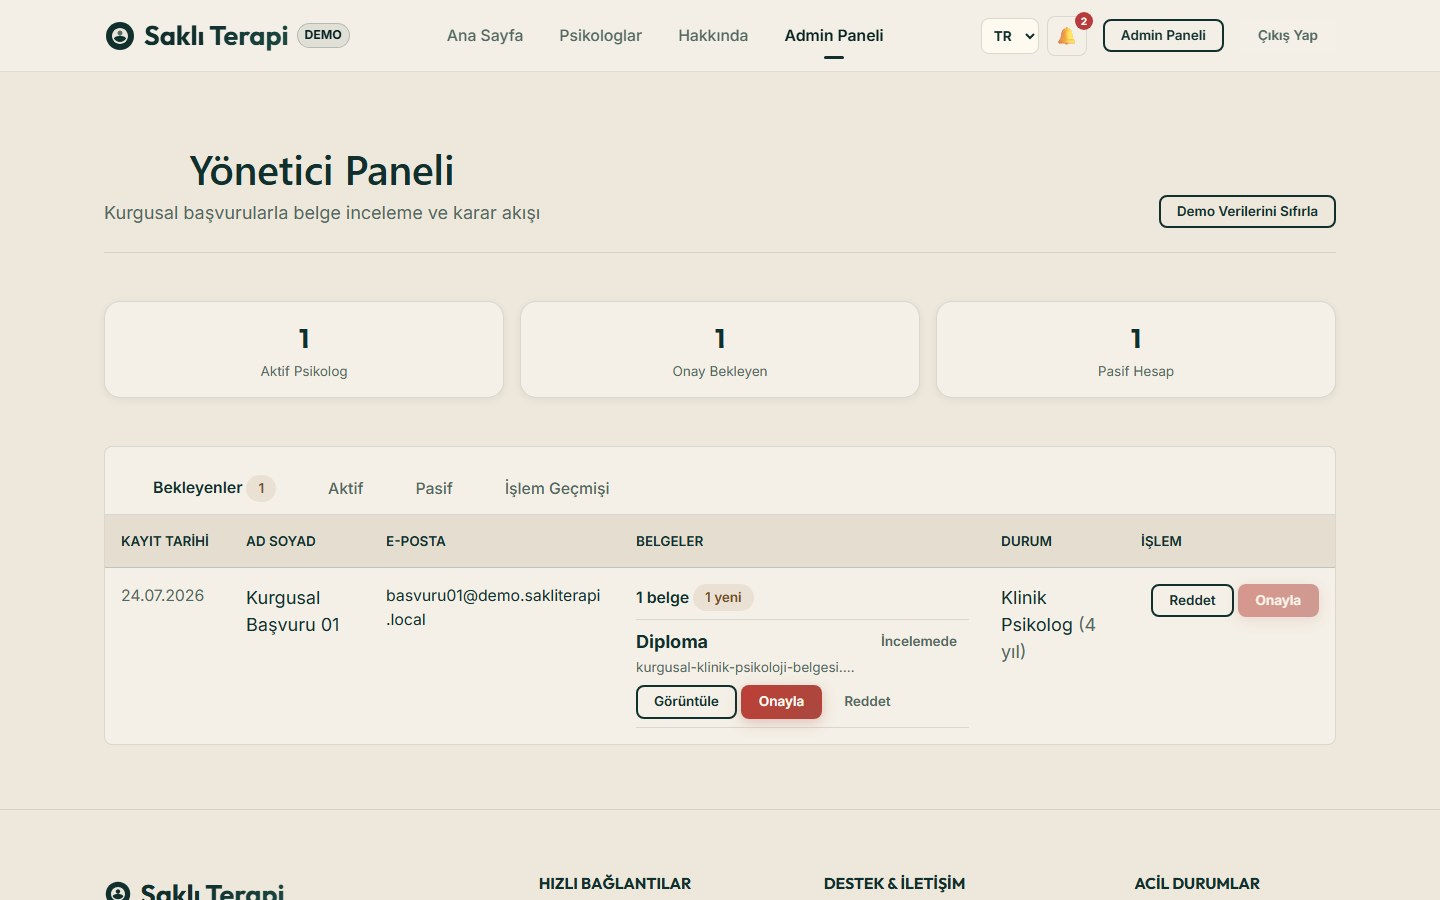
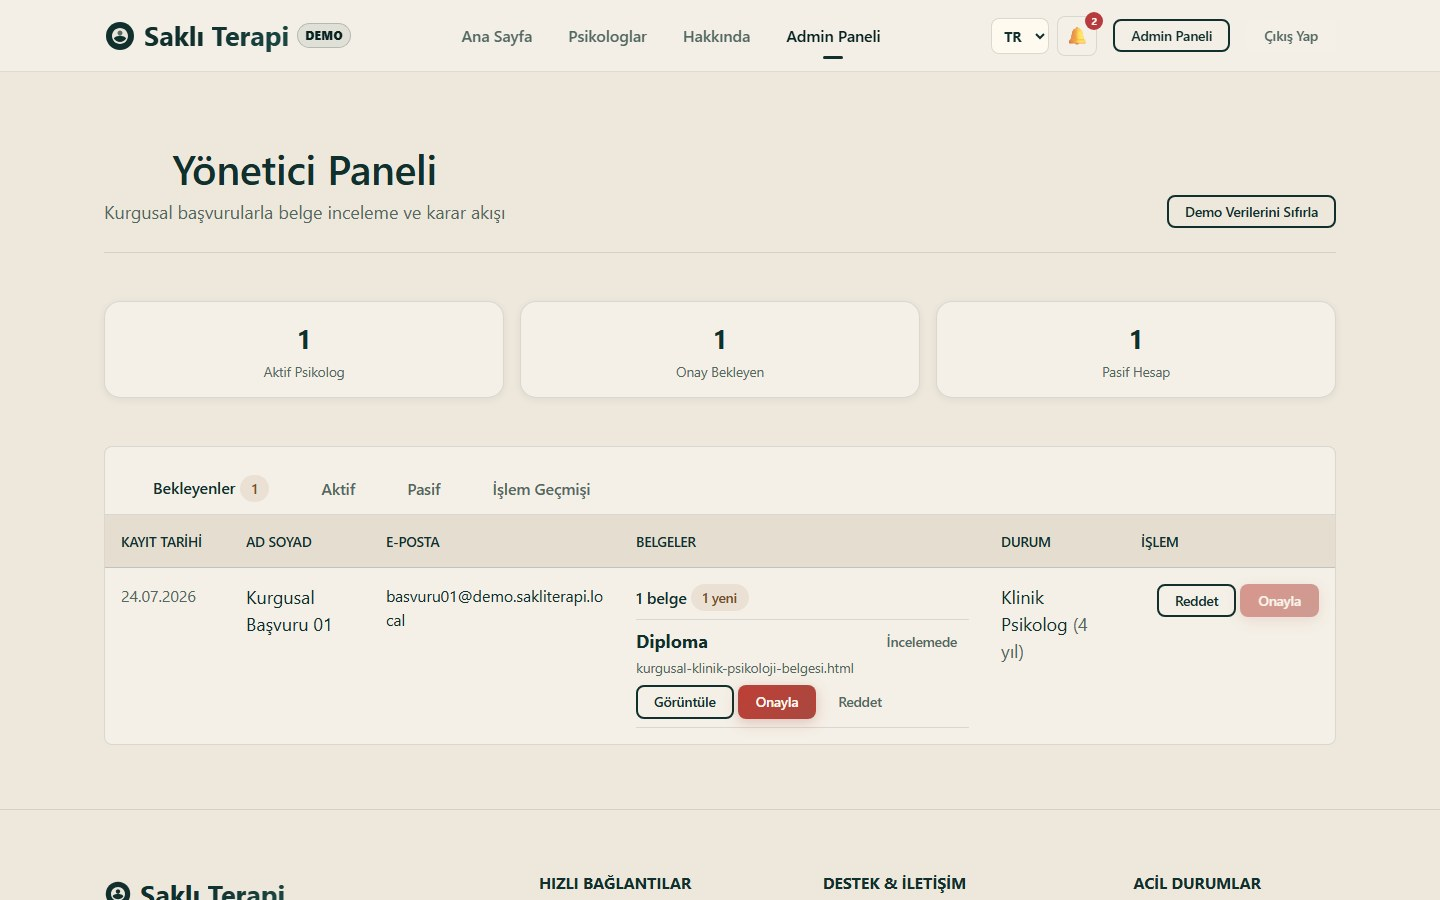
perf: optimize portfolio startup

diff --git a/src/context/LanguageContext.jsx b/src/context/LanguageContext.jsx
@@ -1,5 +1,6 @@
 /* eslint-disable react-refresh/only-export-components */
 import { createContext, useCallback, useContext, useEffect, useMemo, useState } from 'react';
+import { translations } from '../i18n/translations';
 
 const LANGUAGE_STORAGE_KEY = 'sakli_terapi_language';
 const SUPPORTED_LANGUAGES = new Set(['tr', 'en']);
@@ -41,19 +42,6 @@ const getInitialLanguage = () => {
 
 export function LanguageProvider({ children }) {
   const [language, setLanguageState] = useState(getInitialLanguage);
-  const [catalogs, setCatalogs] = useState(null);
-
-  useEffect(() => {
-    let isMounted = true;
-
-    import('../i18n/translations').then(({ translations }) => {
-      if (isMounted) setCatalogs(translations);
-    });
-
-    return () => {
-      isMounted = false;
-    };
-  }, []);
 
   const setLanguage = useCallback((nextLanguage) => {
     if (!SUPPORTED_LANGUAGES.has(nextLanguage)) return;
@@ -62,38 +50,18 @@ export function LanguageProvider({ children }) {
   }, []);
 
   const t = useCallback((key, variables) => {
-    const translated = getTranslation(catalogs?.[language], key);
-    const fallback = getTranslation(catalogs?.tr, key);
+    const translated = getTranslation(translations[language], key);
+    const fallback = getTranslation(translations.tr, key);
     return interpolate(translated ?? fallback ?? key, variables);
-  }, [catalogs, language]);
+  }, [language]);
 
   useEffect(() => {
-    if (!catalogs) return;
     document.documentElement.lang = language;
     const description = document.querySelector('meta[name="description"]');
     if (description) description.setAttribute('content', t('meta.description'));
-  }, [catalogs, language, t]);
+  }, [language, t]);
 
   const value = useMemo(() => ({ language, setLanguage, t }), [language, setLanguage, t]);
-
-  if (!catalogs) {
-    return (
-      <div
-        role="status"
-        aria-label={language === 'en' ? 'Loading language' : 'Dil yükleniyor'}
-        style={{
-          minHeight: '100vh',
-          display: 'grid',
-          placeItems: 'center',
-          background: '#F4F0E7',
-          color: '#102F2D',
-          fontWeight: 700,
-        }}
-      >
-        Saklı Terapi
-      </div>
-    );
-  }
 
   return <LanguageContext.Provider value={value}>{children}</LanguageContext.Provider>;
 }

diff --git a/src/lib/supabase-demo-client.js b/src/lib/supabase-demo-client.js
@@ -1,0 +1,70 @@
+const ok = (data = null) => Promise.resolve({ data, error: null });
+
+const createQuery = () => {
+  const query = {
+    select: () => query,
+    insert: () => query,
+    upsert: () => query,
+    update: () => query,
+    delete: () => query,
+    eq: () => query,
+    neq: () => query,
+    gt: () => query,
+    gte: () => query,
+    lt: () => query,
+    lte: () => query,
+    in: () => query,
+    is: () => query,
+    match: () => query,
+    order: () => query,
+    limit: () => query,
+    range: () => query,
+    single: () => ok(null),
+    maybeSingle: () => ok(null),
+    then: (resolve, reject) => ok([]).then(resolve, reject),
+  };
+
+  return query;
+};
+
+const createChannel = () => {
+  const channel = {
+    on: () => channel,
+    subscribe: () => channel,
+    unsubscribe: () => ok(),
+  };
+  return channel;
+};
+
+export const createClient = () => ({
+  auth: {
+    getSession: () => ok({ session: null }),
+    onAuthStateChange: () => ({
+      data: { subscription: { unsubscribe: () => {} } },
+    }),
+    signInWithPassword: () => ok(),
+    signOut: () => ok(),
+    signUp: () => ok(),
+    resend: () => ok(),
+    updateUser: () => ok(),
+    refreshSession: () => ok(),
+    exchangeCodeForSession: () => ok(),
+    mfa: {
+      listFactors: () => ok({ all: [], totp: [] }),
+      enroll: () => ok(),
+      unenroll: () => ok(),
+      challengeAndVerify: () => ok(),
+    },
+  },
+  from: () => createQuery(),
+  rpc: () => ok([]),
+  channel: () => createChannel(),
+  removeChannel: () => ok(),
+  storage: {
+    from: () => ({
+      upload: () => ok(),
+      remove: () => ok(),
+      createSignedUrl: () => ok({ signedUrl: '' }),
+    }),
+  },
+});

diff --git a/vite.config.js b/vite.config.js
@@ -1,15 +1,31 @@
-import { defineConfig } from 'vite'
+import process from 'node:process'
+import { fileURLToPath } from 'node:url'
+import { defineConfig, loadEnv } from 'vite'
 import react from '@vitejs/plugin-react'
 
 // https://vite.dev/config/
-export default defineConfig({
-  plugins: [react()],
-  server: {
-    allowedHosts: true
-  },
-  test: {
-    environment: 'jsdom',
-    setupFiles: './src/test/setup.js',
-    exclude: ['e2e/**', 'node_modules/**', 'dist/**'],
-  },
+export default defineConfig(({ mode }) => {
+  const env = loadEnv(mode, process.cwd(), '')
+  const isDemoMode = env.VITE_APP_MODE !== 'live'
+
+  return {
+    plugins: [react()],
+    resolve: {
+      alias: isDemoMode
+        ? {
+            '@supabase/supabase-js': fileURLToPath(
+              new URL('./src/lib/supabase-demo-client.js', import.meta.url),
+            ),
+          }
+        : {},
+    },
+    server: {
+      allowedHosts: true,
+    },
+    test: {
+      environment: 'jsdom',
+      setupFiles: './src/test/setup.js',
+      exclude: ['e2e/**', 'node_modules/**', 'dist/**'],
+    },
+  }
 })

diff --git a/src/styles/design-system.css b/src/styles/design-system.css
@@ -3,9 +3,6 @@
    Anonim Psikolojik Danışmanlık Platformu
    ============================================ */
 
-/* Google Fonts */
-@import url('https://fonts.googleapis.com/css2?family=Inter:wght@300;400;500;600;700&family=Outfit:wght@400;500;600;700;800&display=swap');
-
 :root {
   /* ── Primary Colors ── */
   --primary: #102f2d;
@@ -64,8 +61,8 @@
   --border-focus: #bd3f36;
 
   /* ── Typography ── */
-  --font-heading: 'Outfit', -apple-system, BlinkMacSystemFont, 'Segoe UI', sans-serif;
-  --font-body: 'Inter', -apple-system, BlinkMacSystemFont, 'Segoe UI', sans-serif;
+  --font-heading: ui-rounded, 'Segoe UI', system-ui, -apple-system, BlinkMacSystemFont, sans-serif;
+  --font-body: system-ui, -apple-system, BlinkMacSystemFont, 'Segoe UI', sans-serif;
 
   --text-xs: 0.75rem;     /* 12px */
   --text-sm: 0.875rem;    /* 14px */

diff --git a/index.html b/index.html
@@ -3,6 +3,7 @@
   <head>
     <meta charset="UTF-8" />
     <link rel="icon" type="image/svg+xml" href="/favicon.svg" />
+    <link rel="preload" as="image" href="/src/assets/hero.png" fetchpriority="high" />
     <meta name="viewport" content="width=device-width, initial-scale=1.0" />
     <meta name="theme-color" content="#082321" />
     <meta name="application-name" content="Saklı Terapi" />

diff --git a/README.md b/README.md
@@ -109,11 +109,12 @@ npm run test:e2e
 | Tarayıcılar | Chromium, Firefox ve WebKit |
 | Mobil | Pixel 7 Chromium ve iPhone 15 WebKit |
 | Erişilebilirlik | 6 kritik ekran × masaüstü/mobil WCAG A ve AA taraması |
+| Performans | 150 KiB başlangıç aktarım bütçesi |
 | Güvenlik ve teslim | ESLint, production dependency audit ve Vite production build |
 
 Uçtan uca paket; ana sayfa, kalıcı dil tercihi, blur onayı, üç demo rolü, belge görüntüleme ve seans odası akışını doğrular. Erişilebilirlik kontrolleri axe-core ile otomatikleştirilmiştir; otomatik tarama manuel klavye ve yardımcı teknoloji değerlendirmesinin yerini tutmaz.
 
-Tüm kontroller `main` dalına gönderilen her değişiklikte GitHub Actions tarafından yeniden çalıştırılır. Belge görsellerini güncel yerel demo üzerinden yeniden üretmek için geliştirme sunucusu açıkken `npm run screenshots:portfolio` komutunu kullanın.
+Tüm kontroller `main` dalına gönderilen her değişiklikte GitHub Actions tarafından yeniden çalıştırılır. Derleme sonrasında başlangıç performans bütçesini doğrulamak için `npm run check:performance`, belge görsellerini güncel yerel demo üzerinden yeniden üretmek için geliştirme sunucusu açıkken `npm run screenshots:portfolio` komutunu kullanın.
 
 ## Proje Yapısı
 

diff --git a/docs/release-readiness.md b/docs/release-readiness.md
@@ -1,6 +1,6 @@
 # Teslim Hazırlığı
 
-Son güncelleme: 28 Temmuz 2026
+Son güncelleme: 29 Temmuz 2026
 
 ## Profesyonel Portföy Sürümü
 
@@ -14,6 +14,7 @@ Son güncelleme: 28 Temmuz 2026
 - [x] Kritik demo akışları Chromium, Firefox ve WebKit masaüstü/mobil profillerinde uçtan uca otomatik test ediliyor
 - [x] Kritik ekranlar WCAG A/AA kuralları için masaüstü ve mobilde otomatik taranıyor
 - [x] Azaltılmış hareket tercihi ve erişilebilir renk kontrastları destekleniyor
+- [x] Dış font bağımlılığı kaldırıldı, LCP görseli önceden yükleniyor ve başlangıç aktarımı 150 KiB bütçesiyle korunuyor
 - [x] Masaüstü ve mobil görünüm kabul kontrolü yapıldı
 
 ## Hazır Teknik Altyapı
